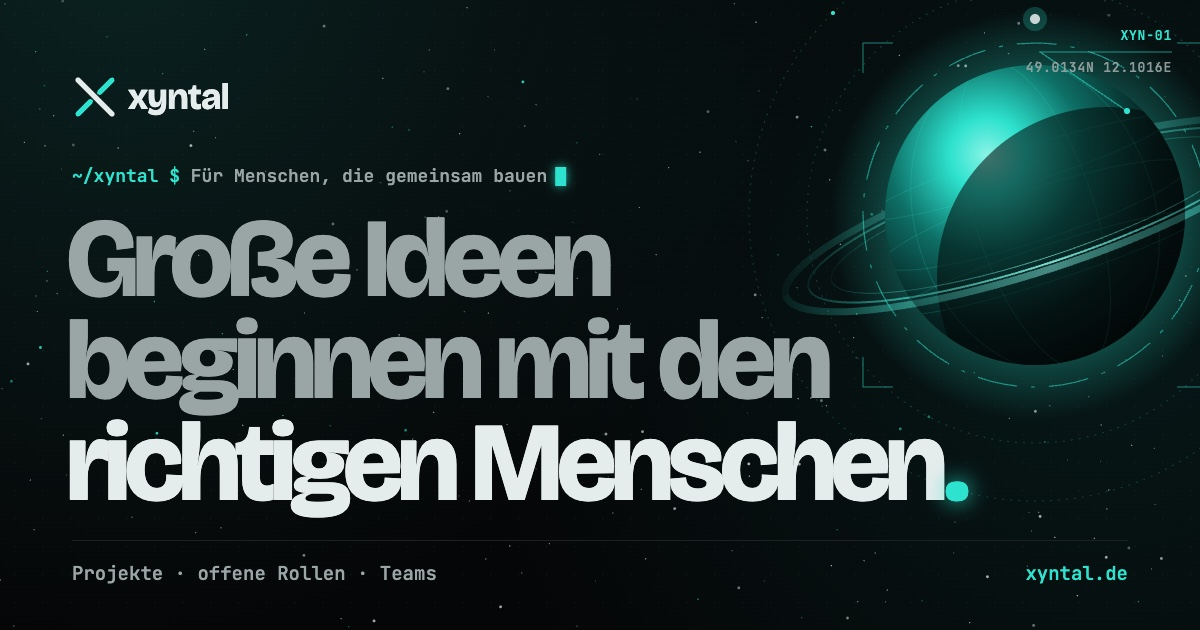
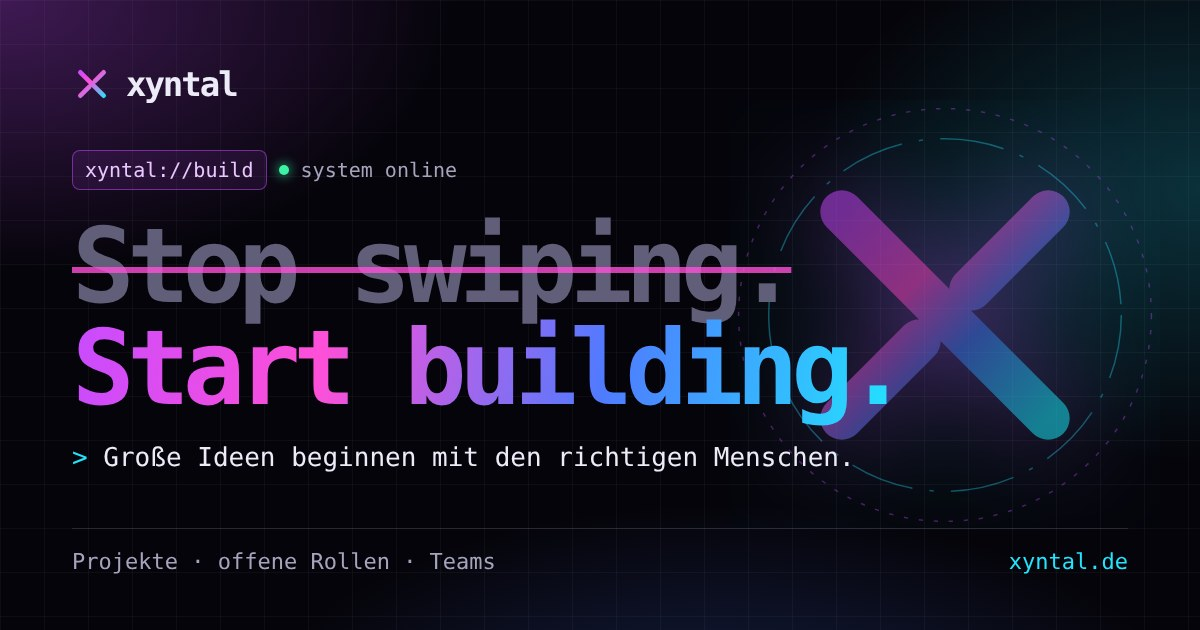
Describe Xyntal as a platform, not a Regensburg founders' club
Footer, hero tag, founder line, console texts and README now say what
Xyntal is: the place where developers, designers, founders and anyone
who wants to build something find their team. New share image in the
current look without the Regensburg coordinates.

Claude-Session: https://claude.ai/code/session_01C6ruCKj85moN7e7dMKfodL

diff --git a/public/cosmos.js b/public/cosmos.js
@@ -227,7 +227,7 @@
     community: "community", boerse: "boerse", market: "boerse", beta: "beta", events: "events", mitglieder: "mitglieder", members: "mitglieder",
   };
   const T = {
-    boot: { de: "xyntal os v2.0 · regensburg-knoten", en: "xyntal os v2.0 · regensburg node" },
+    boot: { de: "xyntal os v2.0 · build-netzwerk", en: "xyntal os v2.0 · build network" },
     b1: { de: "netzwerk", en: "network" }, b2: { de: "profile", en: "profiles" }, b3: { de: "matching-engine", en: "matching engine" },
     online: { de: "online", en: "online" }, ready: { de: "bereit", en: "ready" },
     hint: { de: "Tippe <span class=\"c-hi\">help</span> für Befehle – oder probier einfach was.", en: "Type <span class=\"c-hi\">help</span> for commands – or just try something." },
@@ -239,11 +239,11 @@
       en: [["about", "what is xyntal?"], ["join", "start a project / become a member"], ["demo", "open the interactive demo"], ["projects", "browse open roles"], ["community", "go to the community"], ["beta", "beta program"], ["login", "sign in"], ["whoami", "who are you?"], ["nico", "who is behind this?"], ["lang de", "auf deutsch wechseln"], ["clear", "clear the console"]],
     },
     about: {
-      de: "Xyntal ist ein Gründer-Club aus Regensburg. Du beschreibst deine Idee und wer dir fehlt – Xyntal zeigt dir Menschen, die passen, und warum.\n<span class=\"c-pk\">Stop swiping. Start building.</span>",
-      en: "Xyntal is a founders' club from Regensburg. Describe your idea and who you're missing – Xyntal shows you people who fit, and why.\n<span class=\"c-pk\">Stop swiping. Start building.</span>",
+      de: "Xyntal ist die Plattform, auf der Entwickler, Designer, Gründer und alle, die etwas aufbauen wollen, ihr Team finden. Du beschreibst deine Idee und wer dir fehlt – Xyntal zeigt dir Menschen, die passen, und warum.\n<span class=\"c-pk\">Stop swiping. Start building.</span>",
+      en: "Xyntal is the platform where developers, designers, founders and everyone who wants to build something find their team. Describe your idea and who you're missing – Xyntal shows you people who fit, and why.\n<span class=\"c-pk\">Stop swiping. Start building.</span>",
     },
     whoami: { de: "gast@xyntal – noch ohne Konto. Tippe <span class=\"c-hi\">join</span>, um das zu ändern.", en: "guest@xyntal – no account yet. Type <span class=\"c-hi\">join</span> to change that." },
-    nico: { de: "Nico Scheibe · Gründer · Regensburg\nbaut Xyntal, damit Gründer und Leute, die gründen wollen, ihr Team finden.", en: "Nico Scheibe · founder · Regensburg\nbuilding Xyntal so founders and future founders can find their team." },
+    nico: { de: "Nico Scheibe · Gründer von Xyntal\nbaut Xyntal, damit Gründer und Leute, die gründen wollen, ihr Team finden.", en: "Nico Scheibe · founder of Xyntal\nbuilding Xyntal so founders and future founders can find their team." },
     open: { de: "> öffne", en: "> opening" },
     sudo: { de: "Zugriff verweigert. Hier wird gebaut, nicht gehackt. ;)", en: "Permission denied. We build here, we don't hack. ;)" },
     hack: { de: "Initialisiere … nein. Aber du hast den richtigen Spirit. Tippe <span class=\"c-hi\">join</span>.", en: "Initialising … nope. But you've got the right spirit. Type <span class=\"c-hi\">join</span>." },

diff --git a/public/index.html b/public/index.html
@@ -25,7 +25,7 @@
   <link rel="stylesheet" href="demo.css?v=33">
   <script src="i18n-en.js?v=33" defer></script>
   <script src="i18n.js?v=31" defer></script>
-  <script src="cosmos.js?v=31" defer></script>
+  <script src="cosmos.js?v=32" defer></script>
 </head>
 <body>
 <a class="skip" href="#inhalt">Zum Inhalt springen</a>
@@ -55,7 +55,7 @@
   <section class="hero" aria-labelledby="hero-title">
     <div class="shell hero-grid">
       <div class="hero-main">
-        <p class="hero-kicker"><span class="hk-tag">xyntal://regensburg</span><span class="hk-status"><i aria-hidden="true"></i>System online</span></p>
+        <p class="hero-kicker"><span class="hk-tag">xyntal://build</span><span class="hk-status"><i aria-hidden="true"></i>System online</span></p>
         <h1 id="hero-title" class="hero-title">
           <span class="ht-line ht-dim" data-scramble>Stop swiping.</span>
           <span class="ht-line ht-grad" data-scramble>Start building.</span>
@@ -373,7 +373,7 @@
         <blockquote><p>„Ich bin Nico. Ich arbeite Vollzeit und will bis Ende 2027 etwas Eigenes aufbauen. Dafür fehlen mir die Menschen, die genauso denken. Also baue ich Xyntal, damit Gründer und Leute, die gründen wollen, ihr Team finden.“</p></blockquote>
         <figcaption>
           <span class="founder-mark" aria-hidden="true">NS</span>
-          <span><strong>Nico Scheibe</strong><span>Gründer von Xyntal, Regensburg</span></span>
+          <span><strong>Nico Scheibe</strong><span>Gründer von Xyntal</span></span>
           <a href="https://www.linkedin.com/in/nico-scheibe-781a20445" target="_blank" rel="noopener">LinkedIn<span class="sr-only"> (öffnet in neuem Tab)</span> <span aria-hidden="true">↗</span></a>
         </figcaption>
       </figure>
@@ -435,7 +435,7 @@
         <svg class="brand-mark" viewBox="0 0 24 24" aria-hidden="true"><path d="M5 5l14 14" class="bm-a"/><path d="M19 5l-5.3 5.3M10.3 13.7L5 19" class="bm-b"/></svg>
         <span>xyntal</span>
       </a>
-      <p>Menschen finden, mit denen du etwas aufbaust. Aus Regensburg.</p>
+      <p>Finde die Menschen, mit denen du etwas aufbaust – egal, wo du bist.</p>
     </div>
     <nav class="footer-nav" aria-label="Weitere Seiten">
       <div>

diff --git a/public/i18n-en.js b/public/i18n-en.js
@@ -31,8 +31,8 @@ window.XYNTAL_EN = {
   "Impressum": "Legal notice",
   "Datenschutz": "Privacy",
   "Datenschutzerklärung": "privacy policy",
-  "Menschen finden, mit denen du etwas aufbaust. Aus Regensburg.": "Find the people you'll build with. From Regensburg.",
-  "Für Gründer und Leute, die gründen wollen.": "For founders and people who want to found.",
+  "Finde die Menschen, mit denen du etwas aufbaust – egal, wo du bist.": "Find the people you'll build with – wherever you are.",
+  "Für alle, die etwas aufbauen wollen.": "For everyone who wants to build something.",
   "Fußzeile": "Footer",
   "(öffnet in neuem Tab)": "(opens in a new tab)",
   "Startseite": "Home",
@@ -202,7 +202,7 @@ window.XYNTAL_EN = {
   "Weiterbauen, anpassen oder ehrlich aufhören.": "Keep building, adjust, or honestly stop.",
   "Wer dahintersteht": "Who's behind it",
   "„Ich bin Nico. Ich arbeite Vollzeit und will bis Ende 2027 etwas Eigenes aufbauen. Dafür fehlen mir die Menschen, die genauso denken. Also baue ich Xyntal, damit Gründer und Leute, die gründen wollen, ihr Team finden.“": "“I'm Nico. I work full-time and want to build something of my own by the end of 2027. What I'm missing are people who think the same way. So I'm building Xyntal – so founders and people who want to found can find their team.”",
-  "Gründer von Xyntal, Regensburg": "Founder of Xyntal, Regensburg",
+  "Gründer von Xyntal": "Founder of Xyntal",
   "Was möchtest du": "What do you want to",
   "bauen?": "build?",
   "Ich habe eine Idee": "I have an idea",

diff --git a/public/beta.html b/public/beta.html
@@ -19,9 +19,9 @@
   <link rel="stylesheet" href="fonts/fonts.css?v=31">
   <link rel="stylesheet" href="style.css?v=31">
   <link rel="stylesheet" href="cosmos.css?v=32">
-  <script src="i18n-en.js?v=31" defer></script>
+  <script src="i18n-en.js?v=33" defer></script>
   <script src="i18n.js?v=31" defer></script>
-  <script src="cosmos.js?v=31" defer></script>
+  <script src="cosmos.js?v=32" defer></script>
 </head>
 <body>
 
@@ -158,7 +158,7 @@
   <div class="wrap">
     <div>
       <a class="logo" href="./"><svg class="logo-mark" viewBox="0 0 24 24" aria-hidden="true"><path d="M5 5l14 14" class="bm-a"/><path d="M19 5l-5.3 5.3M10.3 13.7L5 19" class="bm-b"/></svg>xyntal</a>
-      <p style="margin: 10px 0 0">Für Gründer und Leute, die gründen wollen.</p>
+      <p style="margin: 10px 0 0">Für alle, die etwas aufbauen wollen.</p>
     </div>
     <nav class="foot-links" aria-label="Fußzeile">
       <a href="projekte">Projekte</a>

diff --git a/public/boerse.html b/public/boerse.html
@@ -18,9 +18,9 @@
   <link rel="stylesheet" href="fonts/fonts.css?v=31">
   <link rel="stylesheet" href="style.css?v=31">
   <link rel="stylesheet" href="cosmos.css?v=32">
-  <script src="i18n-en.js?v=31" defer></script>
+  <script src="i18n-en.js?v=33" defer></script>
   <script src="i18n.js?v=31" defer></script>
-  <script src="cosmos.js?v=31" defer></script>
+  <script src="cosmos.js?v=32" defer></script>
 </head>
 <body>
 
@@ -103,7 +103,7 @@
   <div class="wrap">
     <div>
       <a class="logo" href="./"><svg class="logo-mark" viewBox="0 0 24 24" aria-hidden="true"><path d="M5 5l14 14" class="bm-a"/><path d="M19 5l-5.3 5.3M10.3 13.7L5 19" class="bm-b"/></svg>xyntal</a>
-      <p style="margin: 10px 0 0">Für Gründer und Leute, die gründen wollen.</p>
+      <p style="margin: 10px 0 0">Für alle, die etwas aufbauen wollen.</p>
     </div>
     <nav class="foot-links" aria-label="Fußzeile">
       <a href="projekte">Projekte</a>

diff --git a/public/mitglied-werden.html b/public/mitglied-werden.html
@@ -18,9 +18,9 @@
   <link rel="stylesheet" href="fonts/fonts.css?v=31">
   <link rel="stylesheet" href="style.css?v=31">
   <link rel="stylesheet" href="cosmos.css?v=32">
-  <script src="i18n-en.js?v=31" defer></script>
+  <script src="i18n-en.js?v=33" defer></script>
   <script src="i18n.js?v=31" defer></script>
-  <script src="cosmos.js?v=31" defer></script>
+  <script src="cosmos.js?v=32" defer></script>
 </head>
 <body>
 
@@ -149,7 +149,7 @@
   <div class="wrap">
     <div>
       <a class="logo" href="./"><svg class="logo-mark" viewBox="0 0 24 24" aria-hidden="true"><path d="M5 5l14 14" class="bm-a"/><path d="M19 5l-5.3 5.3M10.3 13.7L5 19" class="bm-b"/></svg>xyntal</a>
-      <p style="margin: 10px 0 0">Für Gründer und Leute, die gründen wollen.</p>
+      <p style="margin: 10px 0 0">Für alle, die etwas aufbauen wollen.</p>
     </div>
     <nav class="foot-links" aria-label="Fußzeile">
       <a href="projekte">Projekte</a>

diff --git a/public/profil.html b/public/profil.html
@@ -17,9 +17,9 @@
   <link rel="stylesheet" href="fonts/fonts.css?v=31">
   <link rel="stylesheet" href="style.css?v=31">
   <link rel="stylesheet" href="cosmos.css?v=32">
-  <script src="i18n-en.js?v=31" defer></script>
+  <script src="i18n-en.js?v=33" defer></script>
   <script src="i18n.js?v=31" defer></script>
-  <script src="cosmos.js?v=31" defer></script>
+  <script src="cosmos.js?v=32" defer></script>
 </head>
 <body>
 
@@ -159,7 +159,7 @@
   <div class="wrap">
     <div>
       <a class="logo" href="./"><svg class="logo-mark" viewBox="0 0 24 24" aria-hidden="true"><path d="M5 5l14 14" class="bm-a"/><path d="M19 5l-5.3 5.3M10.3 13.7L5 19" class="bm-b"/></svg>xyntal</a>
-      <p style="margin: 10px 0 0">Für Gründer und Leute, die gründen wollen.</p>
+      <p style="margin: 10px 0 0">Für alle, die etwas aufbauen wollen.</p>
     </div>
     <nav class="foot-links" aria-label="Fußzeile">
       <a href="projekte">Projekte</a>

diff --git a/public/projekte.html b/public/projekte.html
@@ -18,9 +18,9 @@
   <link rel="stylesheet" href="fonts/fonts.css?v=31">
   <link rel="stylesheet" href="style.css?v=31">
   <link rel="stylesheet" href="cosmos.css?v=32">
-  <script src="i18n-en.js?v=31" defer></script>
+  <script src="i18n-en.js?v=33" defer></script>
   <script src="i18n.js?v=31" defer></script>
-  <script src="cosmos.js?v=31" defer></script>
+  <script src="cosmos.js?v=32" defer></script>
 </head>
 <body>
 
@@ -112,7 +112,7 @@
   <div class="wrap">
     <div>
       <a class="logo" href="./"><svg class="logo-mark" viewBox="0 0 24 24" aria-hidden="true"><path d="M5 5l14 14" class="bm-a"/><path d="M19 5l-5.3 5.3M10.3 13.7L5 19" class="bm-b"/></svg>xyntal</a>
-      <p style="margin: 10px 0 0">Für Gründer und Leute, die gründen wollen.</p>
+      <p style="margin: 10px 0 0">Für alle, die etwas aufbauen wollen.</p>
     </div>
     <nav class="foot-links" aria-label="Fußzeile">
       <a href="projekte">Projekte</a>

diff --git a/public/community.html b/public/community.html
@@ -18,9 +18,9 @@
   <link rel="stylesheet" href="fonts/fonts.css?v=31">
   <link rel="stylesheet" href="style.css?v=31">
   <link rel="stylesheet" href="cosmos.css?v=32">
-  <script src="i18n-en.js?v=31" defer></script>
+  <script src="i18n-en.js?v=33" defer></script>
   <script src="i18n.js?v=31" defer></script>
-  <script src="cosmos.js?v=31" defer></script>
+  <script src="cosmos.js?v=32" defer></script>
 </head>
 <body>
 
@@ -87,7 +87,7 @@
   <div class="wrap">
     <div>
       <a class="logo" href="./"><svg class="logo-mark" viewBox="0 0 24 24" aria-hidden="true"><path d="M5 5l14 14" class="bm-a"/><path d="M19 5l-5.3 5.3M10.3 13.7L5 19" class="bm-b"/></svg>xyntal</a>
-      <p style="margin: 10px 0 0">Für Gründer und Leute, die gründen wollen.</p>
+      <p style="margin: 10px 0 0">Für alle, die etwas aufbauen wollen.</p>
     </div>
     <nav class="foot-links" aria-label="Fußzeile">
       <a href="projekte">Projekte</a>

diff --git a/public/events.html b/public/events.html
@@ -18,9 +18,9 @@
   <link rel="stylesheet" href="fonts/fonts.css?v=31">
   <link rel="stylesheet" href="style.css?v=31">
   <link rel="stylesheet" href="cosmos.css?v=32">
-  <script src="i18n-en.js?v=31" defer></script>
+  <script src="i18n-en.js?v=33" defer></script>
   <script src="i18n.js?v=31" defer></script>
-  <script src="cosmos.js?v=31" defer></script>
+  <script src="cosmos.js?v=32" defer></script>
 </head>
 <body>
 
@@ -79,7 +79,7 @@
   <div class="wrap">
     <div>
       <a class="logo" href="./"><svg class="logo-mark" viewBox="0 0 24 24" aria-hidden="true"><path d="M5 5l14 14" class="bm-a"/><path d="M19 5l-5.3 5.3M10.3 13.7L5 19" class="bm-b"/></svg>xyntal</a>
-      <p style="margin: 10px 0 0">Für Gründer und Leute, die gründen wollen.</p>
+      <p style="margin: 10px 0 0">Für alle, die etwas aufbauen wollen.</p>
     </div>
     <nav class="foot-links" aria-label="Fußzeile">
       <a href="projekte">Projekte</a>

diff --git a/public/login.html b/public/login.html
@@ -17,9 +17,9 @@
   <link rel="stylesheet" href="fonts/fonts.css?v=31">
   <link rel="stylesheet" href="style.css?v=31">
   <link rel="stylesheet" href="cosmos.css?v=32">
-  <script src="i18n-en.js?v=31" defer></script>
+  <script src="i18n-en.js?v=33" defer></script>
   <script src="i18n.js?v=31" defer></script>
-  <script src="cosmos.js?v=31" defer></script>
+  <script src="cosmos.js?v=32" defer></script>
 </head>
 <body>
 
@@ -80,7 +80,7 @@
   <div class="wrap">
     <div>
       <a class="logo" href="./"><svg class="logo-mark" viewBox="0 0 24 24" aria-hidden="true"><path d="M5 5l14 14" class="bm-a"/><path d="M19 5l-5.3 5.3M10.3 13.7L5 19" class="bm-b"/></svg>xyntal</a>
-      <p style="margin: 10px 0 0">Für Gründer und Leute, die gründen wollen.</p>
+      <p style="margin: 10px 0 0">Für alle, die etwas aufbauen wollen.</p>
     </div>
     <nav class="foot-links" aria-label="Fußzeile">
       <a href="projekte">Projekte</a>

diff --git a/public/mitglieder.html b/public/mitglieder.html
@@ -18,9 +18,9 @@
   <link rel="stylesheet" href="fonts/fonts.css?v=31">
   <link rel="stylesheet" href="style.css?v=31">
   <link rel="stylesheet" href="cosmos.css?v=32">
-  <script src="i18n-en.js?v=31" defer></script>
+  <script src="i18n-en.js?v=33" defer></script>
   <script src="i18n.js?v=31" defer></script>
-  <script src="cosmos.js?v=31" defer></script>
+  <script src="cosmos.js?v=32" defer></script>
 </head>
 <body>
 
@@ -62,7 +62,7 @@
   <div class="wrap">
     <div>
       <a class="logo" href="./"><svg class="logo-mark" viewBox="0 0 24 24" aria-hidden="true"><path d="M5 5l14 14" class="bm-a"/><path d="M19 5l-5.3 5.3M10.3 13.7L5 19" class="bm-b"/></svg>xyntal</a>
-      <p style="margin: 10px 0 0">Für Gründer und Leute, die gründen wollen.</p>
+      <p style="margin: 10px 0 0">Für alle, die etwas aufbauen wollen.</p>
     </div>
     <nav class="foot-links" aria-label="Fußzeile">
       <a href="projekte">Projekte</a>
